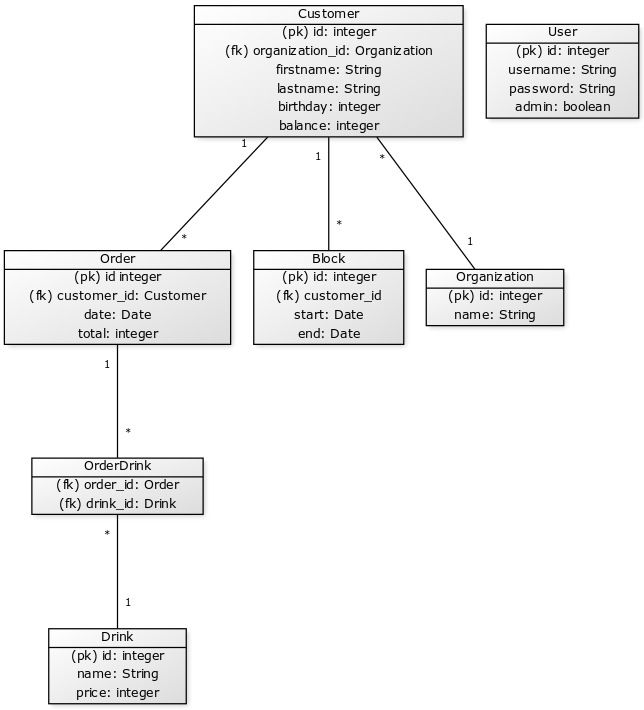
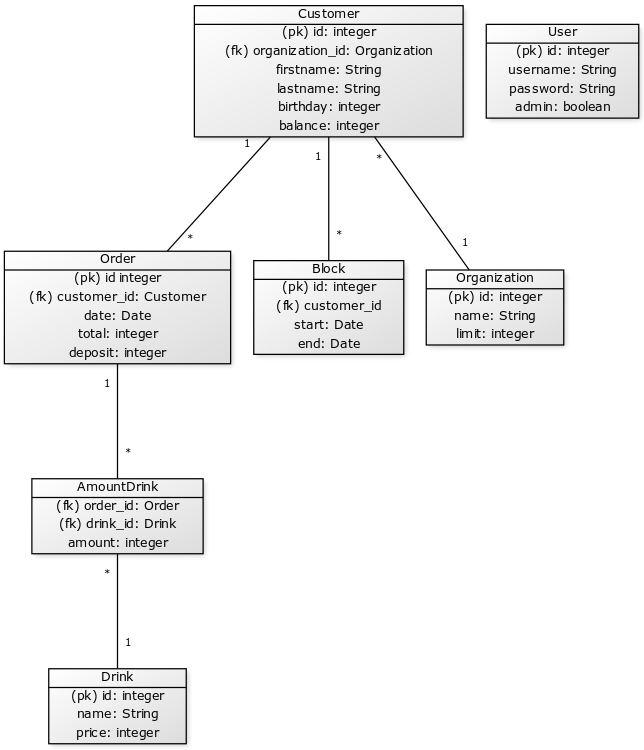
Updated documentation

diff --git a/application/views.py b/application/views.py
@@ -6,6 +6,8 @@ from application.organizations.models import Organization
 from application.customers.models import Customer
 from application.orders.models import Order, DrinkAmount, Drink
 
+# Home page
+
 @app.route("/", methods = ["GET"])
 @login_required
 def home():
@@ -21,6 +23,7 @@ def home():
 
   return render_template("index.html", form=form, birthday_visible=False, message=message)
 
+# Handles POST for adding new orders
 
 @app.route("/", methods=["POST"])
 @login_required
@@ -62,8 +65,6 @@ def create_order():
     Drink.generate()
     drinks = Drink.query.all()
 
-  print(drinks)
-
   drinkData = [
     form.beer.data,
     form.long_drink.data,
@@ -77,9 +78,8 @@ def create_order():
   order = Order(customer.id)
   db.session.add(order)
   db.session.commit()
-  success = order.add_drinks(customer, drinks, drinkData, form.deposit.data)
 
-  if success:
-    return redirect(url_for('home', message="Ostos lisätty asiakkaalle. Asiakkaan piikki on nyt %.2f €"%customer.get_balance_in_euros()))
-  else:
-    return render_template("index.html", form=form, birthday_visible=False, error="Ostoksen lisäys epäonnistui")
+  # Add drinks to the order
+  order.add_drinks(customer, drinks, drinkData, form.deposit.data)
+
+  return redirect(url_for('home', message="Ostos lisätty asiakkaalle. Asiakkaan piikki on nyt %.2f €"%customer.get_balance_in_euros()))

diff --git a/application/orders/models.py b/application/orders/models.py
@@ -14,13 +14,11 @@ class Order(Base):
     self.customer_id = customer_id
 
   def add_drinks(self, customer, drinks, drinkData, deposit):
-    db.session.begin_nested()
     db.session.add(self)
     db.session.add(customer)
 
     total = 0
     i = 0
-    #try:
     while i < len(drinks):
       price = drinkData[i] * drinks[i].price
       drinkAmount = DrinkAmount(self.id, drinks[i].id, int(drinkData[i]))
@@ -34,11 +32,6 @@ class Order(Base):
     self.deposit = deposit
     customer.balance -= total-deposit
     db.session.commit()
-    return True
-    # except:
-    #   db.session.rollback()
-    
-    return False
 
 
 class Drink(Base):
@@ -50,14 +43,14 @@ class Drink(Base):
     self.price = price
   
   def generate():
+    # Default values for drinks
     drinks = [{'olut':150}, {'lonkero':150}, {'siideri':150}, {'alkoholiton':100}, {'erikoisolut':250}, {'drinkki':250}, {'erikoisdrinkki':350}]
     for drink in drinks:
       for drinkName in drink:
         db.session.add(Drink(drinkName, drink.get(drinkName)))
         db.session.commit()
 
-class DrinkAmount(db.Model):
-  id = db.Column(db.Integer, primary_key=True)
+class DrinkAmount(Base):
   order_id = db.Column(db.Integer, db.ForeignKey('purchase.id'))
   drink_id = db.Column(db.Integer, db.ForeignKey('drink.id'))
   amount = db.Column(db.Integer)

diff --git a/application/__init__.py b/application/__init__.py
@@ -7,7 +7,6 @@ import os
 
 if os.environ.get("HEROKU"):
     app.config["SQLALCHEMY_DATABASE_URI"] = os.environ.get("DATABASE_URL")
-    app.config["SQLALCHEMY_ECHO"] = True
 
 else:
     app.config["SQLALCHEMY_DATABASE_URI"] = "sqlite:///piikkilista.db"
@@ -23,30 +22,6 @@ login_manager.init_app(app)
 
 login_manager.login_view = "auth_login"
 login_manager.login_message = "Please login to use this functionality."
-
-from functools import wraps
-
-def login_required(role="ANY"):
-    def wrapper(fn):
-        @wraps(fn)
-        def decorated_view(*args, **kwargs):
-            if not current_user:
-                return login_manager.unauthorized()
-            
-            if not current_user.is_authenticated():
-                return login_manager.unauthorized()
-            
-            unauthorized = False
-
-            if role != "ANY":
-                unauthorized = True
-            
-            if unauthorized:
-                return login_manager.unauthorized()
-
-            return fn(*args, **kwargs)
-        return decorated_view
-    return wrapper
 
 from application import views
 from application.customers import models, views
